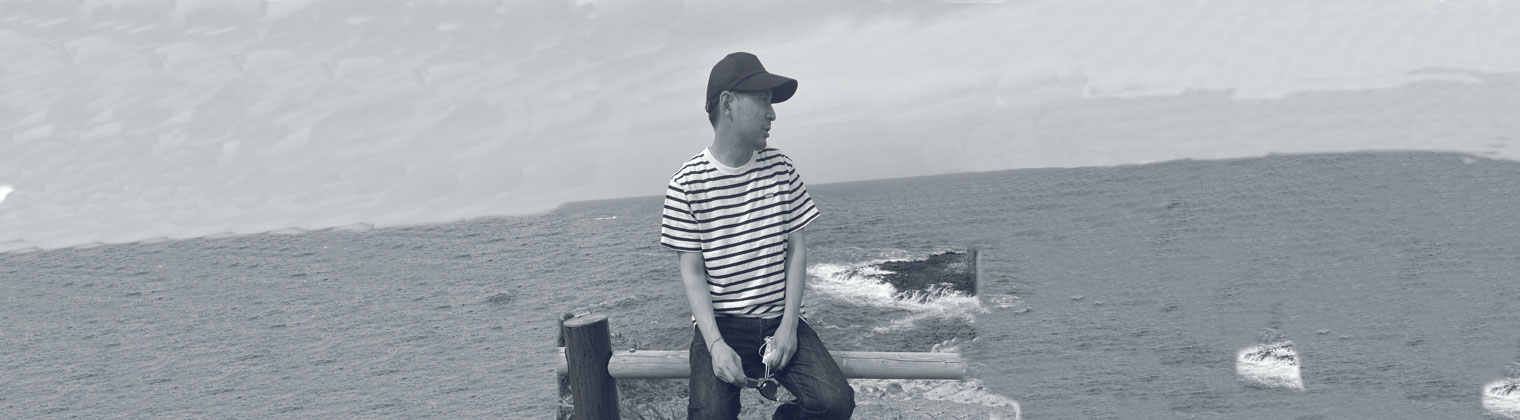
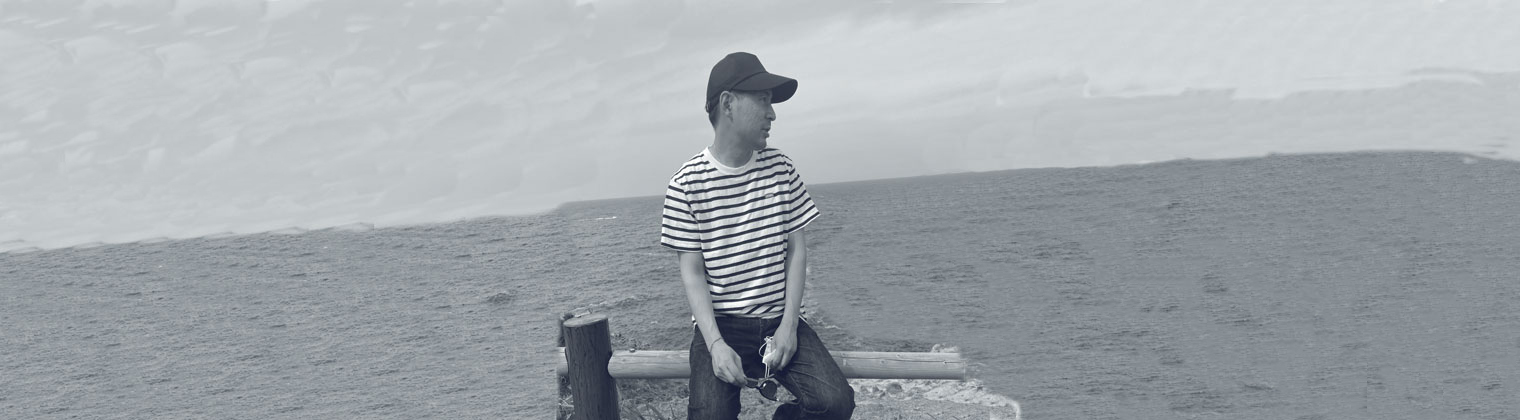
0622 home
本日最終変更

diff --git a/style.css b/style.css
@@ -41,7 +41,7 @@ nav ul{
     grid-column-gap: 100px;
     list-style-type: none;
     padding: auto;
-    letter-spacing: .1em;
+    letter-spacing: .1rem;
     width: auto;
 }
 nav a{
@@ -61,7 +61,7 @@ nav a:hover{
     
 }
 #main-container img{
-    height: 25rem;
+    height: auto;
     width: 100%;
     overflow: hidden;
     object-fit: cover;
@@ -99,6 +99,8 @@ h2{
     font-family: 'Shippori Mincho', serif;
     font-size: 24px;
     font-weight: bold;
+    letter-spacing: 0.5rem;
+    margin-top: 1.5rem;
     text-align: center;
 }
 /* ↑ここまでworks */

diff --git a/index.html b/index.html
@@ -30,7 +30,7 @@
     <div id="main-container">
         <p>意識高いやつ</p>
         <figure>
-            <img src="images/hero/self2.jpg" alt="portrait">
+            <img src="images/hero/hero1.jpg" alt="portrait">
         </figure>
     </div>
 
